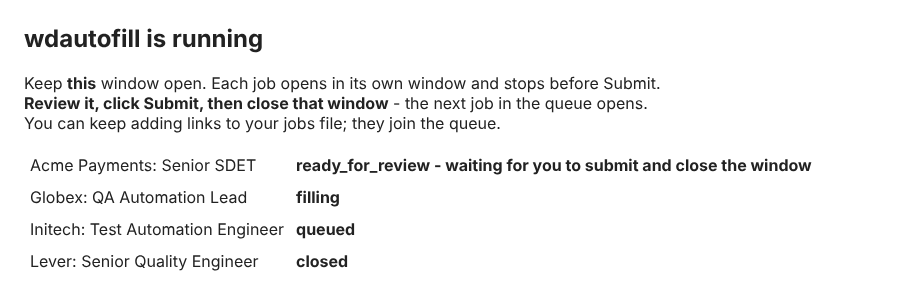
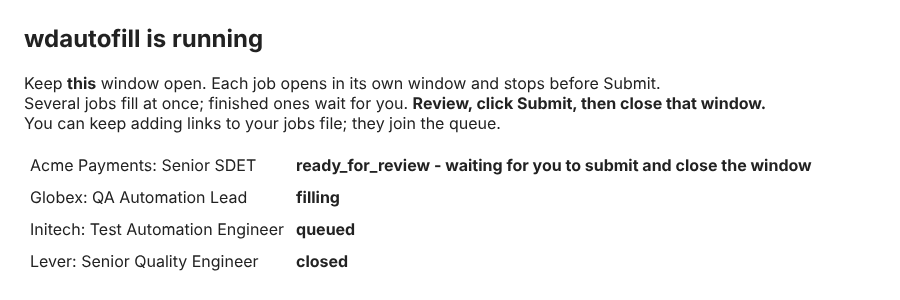
Fill 5 jobs at once regardless of open windows; search and profile fixes

Changed region(s): [[0.0311, 0.3, 0.8711, 0.39]]

diff --git a/src/wdautofill/workday.py b/src/wdautofill/workday.py
@@ -568,7 +568,18 @@ class WorkdayFiller:
 
     def _row_entries(self, section: str) -> list[dict] | None:
         entries = self.resolver.profile.get(section)
-        return entries if isinstance(entries, list) else None
+        if not isinstance(entries, list):
+            return None
+        out = []
+        for e in entries:
+            e = dict(e or {})
+            if section == "education" and "school" not in e:  # accept college / university / institution
+                for alias in ("college", "university", "institution"):
+                    if alias in e:
+                        e["school"] = e[alias]
+                        break
+            out.append(e)
+        return out
 
     async def _sync_rows(self) -> None:
         """Make the number of Work Experience / Education blocks match your profile."""
@@ -962,7 +973,7 @@ STATUS_PAGE = """<html><head><title>wdautofill - keep this window open</title></
 <body style="font-family:system-ui,sans-serif;margin:24px;color:#222">
 <h2>wdautofill is running</h2>
 <p>Keep <b>this</b> window open. Each job opens in its own window and stops before Submit.<br>
-<b>Review it, click Submit, then close that window</b> - the next job in the queue opens.<br>
+Several jobs fill at once; finished ones wait for you. <b>Review, click Submit, then close that window.</b><br>
 You can keep adding links to your jobs file; they join the queue.</p>
 <table cellpadding="6" style="border-collapse:collapse">{rows}</table></body></html>"""
 
@@ -973,15 +984,19 @@ async def run_jobs(
     browser_dir: Path,
     channel: str | None = None,
     parallel: int = 5,
+    max_open: int = 15,
     watch_file: Path | None = None,
     skip_urls: set[str] | None = None,
     watch_interval: float = 5.0,
     headless: bool = False,
     **kwargs,
 ) -> dict[str, str]:
-    """Unlimited queue. At most `parallel` job windows are open at once; when you
-    close a window (after submitting), the next job starts. New lines added to
-    `watch_file` while running are queued too."""
+    """Unlimited queue. `parallel` applications are being FILLED at any moment; a
+    window that is finished and waiting for you does not hold up the next job.
+    `max_open` caps how many job windows can be open in total (filled ones wait for
+    you to submit and close them). New lines added to `watch_file` are queued too."""
+    max_open = max(max_open, parallel)
+    filling = asyncio.Semaphore(max(1, parallel))
     browser_dir.mkdir(parents=True, exist_ok=True)
     skip_urls = set(skip_urls or ())
     queue: asyncio.Queue = asyncio.Queue()
@@ -1026,7 +1041,10 @@ async def run_jobs(
                     queue.task_done()
                     return
                 page = None
+                slot_held = False
                 try:
+                    await filling.acquire()  # at most `parallel` jobs filling at once
+                    slot_held = True
                     page = await ctx.new_page()
                     status[job.url] = "filling"
                     await refresh()
@@ -1042,6 +1060,8 @@ async def run_jobs(
                         result = "error - finish by hand"
                     titles[job.url] = f"{job.company + ': ' if job.company else ''}{job.title or job.url}"
                     status[job.url] = f"{result} - waiting for you to submit and close the window"
+                    filling.release()  # done filling: the next job can start now
+                    slot_held = False
                     await refresh()
                     if not page.is_closed():  # you close it after submitting
                         await page.wait_for_event("close", timeout=0)
@@ -1050,6 +1070,8 @@ async def run_jobs(
                 except Exception as exc:  # browser closed, etc.
                     status[job.url] = f"error: {type(exc).__name__}"
                 finally:
+                    if slot_held:
+                        filling.release()
                     await refresh()
                     queue.task_done()
 
@@ -1071,7 +1093,8 @@ async def run_jobs(
                 await asyncio.sleep(watch_interval)
 
         await refresh()
-        workers = [asyncio.create_task(worker()) for _ in range(max(1, parallel))]
+        # one worker per window that may be open; the semaphore limits how many fill at once
+        workers = [asyncio.create_task(worker()) for _ in range(max(1, max_open))]
         watch_task = asyncio.create_task(watcher())
         try:
             while True:

diff --git a/src/wdautofill/cli.py b/src/wdautofill/cli.py
@@ -5,6 +5,7 @@ import asyncio
 import getpass
 import json
 import os
+import re
 import sys
 from pathlib import Path
 
@@ -29,6 +30,22 @@ def _load_profile(folder: Path) -> tuple[dict, Path] | None:
     except yaml.YAMLError as exc:
         _yaml_help(path, exc)
         return None
+
+
+def _profile_problems(profile: dict) -> list[str]:
+    """Easy-to-make mistakes that would make fields fail later."""
+    out = []
+    for section, fmt, pattern in (("experience", "MM/YYYY (e.g. 08/2025)", r"^\d{1,2}/\d{4}$"),
+                                  ("education", "YYYY or MM/YYYY (e.g. 2014)", r"^(\d{1,2}/)?\d{4}$")):
+        for i, e in enumerate(profile.get(section) or [], 1):
+            for key in ("from", "to"):
+                v = str((e or {}).get(key, "") or "").strip()
+                if v and v.lower() not in {"current", "present", "now", "today"} and not re.match(pattern, v):
+                    out.append(f"{section} #{i} {key}: '{v}' - use {fmt}")
+    edu = profile.get("education") or []
+    if edu and not any(k in (edu[0] or {}) for k in ("school", "college", "university", "institution")):
+        out.append("education #1 has no 'school:' - add your university/college name")
+    return out
 
 
 def _yaml_help(path: Path, exc: Exception) -> None:
@@ -125,6 +142,9 @@ def _apply(args: argparse.Namespace) -> int:
         return 1
     profile, _ = loaded
 
+    for problem in _profile_problems(profile):
+        print("Check profile.yaml:", problem)
+
     jobs_file = _file(folder, args.file) or folder / "jobs.txt"
     if not args.urls and not read_job_lines(jobs_file.read_text(encoding="utf-8") if jobs_file.exists() else ""):
         _paste_links(jobs_file)
@@ -182,7 +202,7 @@ def _apply(args: argparse.Namespace) -> int:
 
     from .workday import run_jobs  # imported lazily so tests don't need a browser
 
-    print(f"\n{len(jobs)} job(s) queued; up to {args.parallel} windows open at a time.")
+    print(f"\n{len(jobs)} job(s) queued; {args.parallel} filling at a time, up to {args.max_open} windows open.")
     print(f"Add more links to {jobs_file.name} at any time - they join the queue.\n")
     asyncio.run(
         run_jobs(
@@ -191,6 +211,7 @@ def _apply(args: argparse.Namespace) -> int:
             browser_dir=Path(args.browser_dir).expanduser(),
             channel=args.channel,
             parallel=args.parallel,
+            max_open=args.max_open,
             watch_file=jobs_file,
             skip_urls=set(done),
             resume_path=resume_path,
@@ -227,6 +248,13 @@ def _search(args: argparse.Namespace) -> int:
         print(f"Companies list not found: {companies}", file=sys.stderr)
         return 1
     sites = read_sites(companies)
+    if not sites:
+        print(f"{companies} has no career sites yet - nothing to search.\n"
+              "Add one Workday career-site address per line, e.g.\n"
+              "  https://mastercard.wd1.myworkdayjobs.com/CorporateCareers\n"
+              "Find more: open a company's careers page; if the address contains myworkdayjobs.com, paste it.\n"
+              "(LinkedIn is not searched - its terms forbid automated searching.)", file=sys.stderr)
+        return 1
     print(f"Searching {len(sites)} Workday career sites for {keywords} in '{location or 'any location'}', "
           f"posted in the last {days} days...")
     failed = []
@@ -279,7 +307,10 @@ def _add_apply_args(p: argparse.ArgumentParser) -> None:
     p.add_argument("urls", nargs="*", help="Workday job URLs (optional - default: jobs.txt)")
     p.add_argument("--dir", default=".", help="folder with profile.yaml, answers, jobs.txt (default: here)")
     p.add_argument("--file", help="job list file (default: jobs.txt in --dir)")
-    p.add_argument("--parallel", type=int, default=5, help="job windows open at once (default 5)")
+    p.add_argument("--parallel", type=int, default=5,
+                   help="applications filling at the same time (default 5)")
+    p.add_argument("--max-open", type=int, default=15,
+                   help="job windows open in total, incl. finished ones waiting for you (default 15)")
     p.add_argument("--country", help="country of ALL these jobs (US, UK, IN...). Default: read from each posting")
     p.add_argument("--again", action="store_true", help="also redo jobs filled before")
     p.add_argument("--resume", help="resume file (default: resume_path in profile)")

diff --git a/tests/test_driver_mock.py b/tests/test_driver_mock.py
@@ -461,3 +461,43 @@ def test_waits_for_workday_loading_screen(tmp_path):
     assert status == "ready_for_review"
     assert (first, city) == ("John", "Pune")
     assert not submitted
+
+
+def test_finished_windows_waiting_for_you_do_not_block_new_jobs(tmp_path, monkeypatch):
+    """--parallel counts jobs being FILLED; filled windows waiting for review don't hold a slot."""
+    from wdautofill import workday
+
+    jobs_file = tmp_path / "jobs.txt"
+    jobs_file.write_text("".join(f"https://c{i}.wd1.myworkdayjobs.com/x/job/{i}\n" for i in range(1, 5)))
+    pages, started = [], []
+
+    async def fake_run(self, url=None):
+        started.append(self.job.url)
+        pages.append(self.page)
+        await self.page.set_content("<p>filled - waiting for review</p>")
+        return "ready_for_review"  # window stays open, like a real finished application
+
+    async def reviewer():
+        while len(started) < 4:  # all 4 must start although nobody closed a window yet
+            await asyncio.sleep(0.1)
+        for p in pages:
+            await p.close()
+
+    monkeypatch.setattr(workday.WorkdayFiller, "run", fake_run)
+    from wdautofill.jobs import parse_jobs
+
+    async def main():
+        rev = asyncio.create_task(reviewer())
+        status = await asyncio.wait_for(workday.run_jobs(
+            parse_jobs([], str(jobs_file), None), Resolver({}, AnswerBank(tmp_path / "a.yaml")),
+            browser_dir=tmp_path / "browser", parallel=2, max_open=15, headless=True), timeout=60)
+        await rev
+        return status
+
+    try:
+        status = asyncio.run(main())
+    except Exception as exc:
+        if "Executable doesn't exist" in str(exc):
+            pytest.skip("Playwright browser not installed")
+        raise
+    assert len(started) == 4 and set(status.values()) == {"closed"}

diff --git a/src/wdautofill/templates.py b/src/wdautofill/templates.py
@@ -140,8 +140,25 @@ JOBS = '''\
 
 COMPANIES = """\
 # Workday career sites to search, one per line (wdautofill search).
-# Find one: open a company's careers page; if the address contains
-# myworkdayjobs.com, copy it up to the site name, e.g.
-# https://acme.wd5.myworkdayjobs.com/en-US/External
-# Any job link from that site also works.
+# Find more: open a company's careers page; if the address contains
+# myworkdayjobs.com, paste it here (any job link from that site also works).
+# Starter list: companies that had QA/SDET jobs in India on Workday (October 2026).
+# Delete the ones you don't want, add your own.
+
+https://mastercard.wd1.myworkdayjobs.com/CorporateCareers
+https://worldpay.wd5.myworkdayjobs.com/Worldpay_External_Careers_Site
+https://fiserv.wd5.myworkdayjobs.com/EXT
+https://tsys.wd1.myworkdayjobs.com/en-US/TSYS
+https://statestreet.wd1.myworkdayjobs.com/en-US/Global
+https://lplfinancial.wd1.myworkdayjobs.com/en-US/India_Ext
+https://finastra.wd3.myworkdayjobs.com/en-US/FINC
+https://autodesk.wd1.myworkdayjobs.com/en-US/Ext
+https://qualys.wd5.myworkdayjobs.com/en-US/Careers
+https://rockwellautomation.wd1.myworkdayjobs.com/External_Rockwell_Automation
+https://wk.wd3.myworkdayjobs.com/en-US/External
+https://automationanywhere.wd5.myworkdayjobs.com/en-US/AutomationAnywhereJobs
+https://prodege.wd108.myworkdayjobs.com/Prodege_Careers
+https://accenture.wd103.myworkdayjobs.com/en-US/AccentureCareers
+https://jadeglobal.wd5.myworkdayjobs.com/Jade_Careers
+https://dentsuaegis.wd3.myworkdayjobs.com/en-US/DAN_GLOBAL
 """

diff --git a/tests/test_coverletter_search.py b/tests/test_coverletter_search.py
@@ -95,3 +95,21 @@ def test_search_filters_scores_and_ranks():
     assert top.company == "Acme" and top.url.endswith("/Ext/job/Pune/Senior-SDET_R1")
     assert top.matched == ["Playwright", "C#", "Azure DevOps"] and top.score > posts[1].score
     assert "asks 15+ yrs" in posts[1].notes
+
+
+def test_search_location_city_and_years_text():
+    """'Pune, India' must match postings listed as 'Pune' / 'IND Pune'; years may be '9+'."""
+    site = Site("acme.wd5.myworkdayjobs.com", "acme", "Ext")
+    listing = [{"title": "SDET", "externalPath": "/job/a/SDET_R1", "locationsText": "IND Pune", "postedOn": "Posted Today"},
+               {"title": "SDET", "externalPath": "/job/b/SDET_R2", "locationsText": "Austin, TX", "postedOn": "Posted Today"}]
+
+    def http(url, body=None):
+        if body is not None:
+            return {"total": 2, "jobPostings": listing} if body["offset"] == 0 else {"jobPostings": []}
+        loc = "IND Pune" if "R1" in url else "Austin, TX"
+        return {"jobPostingInfo": {"location": loc, "jobDescription": "Selenium and C#. 15+ years"}}
+
+    posts = search([site], ["SDET"], "Pune, India", ["Selenium", "C#"], years="9+", max_days=30,
+                   http=http, log=lambda *a: None)
+    assert [p.path for p in posts] == ["/job/a/SDET_R1"]
+    assert "asks 15+ yrs" in posts[0].notes

diff --git a/src/wdautofill/search.py b/src/wdautofill/search.py
@@ -141,6 +141,12 @@ def _has(text: str, term: str) -> bool:
     return re.search(r"(?<![a-z0-9])" + re.escape(term.lower()) + r"(?![a-z0-9])", text.lower()) is not None
 
 
+def parse_years(value) -> float | None:
+    """9, "9", "9+", "9 years" -> 9.0"""
+    m = re.search(r"\d+(\.\d+)?", str(value)) if value is not None else None
+    return float(m.group(0)) if m else None
+
+
 def score(post: Posting, keywords: list[str], skills: list[str], years: float | None) -> None:
     title_hit = any(_has(post.title, k) for k in keywords)
     post.matched = [s for s in skills if _has(post.description + " " + post.title, s)]
@@ -164,7 +170,9 @@ def search(
     exclude: list[str] | None = None, http=_http, log=print,
 ) -> list[Posting]:
     found: dict[str, Posting] = {}  # keyed by site + path (stable before details load)
-    loc = location.lower().strip()
+    years = parse_years(years)
+    # "Pune, India" -> match on "pune" (Workday lists jobs as "Pune", "IND Pune", "Pune, MH"...)
+    loc = re.split(r"[,/|]", location.lower())[0].strip()
     for site in sites:
         n_before = len(found)
         try:

diff --git a/src/wdautofill/llm.py b/src/wdautofill/llm.py
@@ -114,6 +114,10 @@ def make_llm(
     provider = (provider or "none").lower()
     if provider in {"none", ""}:
         return None
+    if not (model or "").strip():
+        print(f"Note: llm.provider is '{provider}' but llm.model is empty - AI is off. "
+              "Set a model (see the examples in profile.yaml) or use provider: none.")
+        return None
     if provider == "anthropic":
         return AnthropicLLM(model)
     if provider == "openai":

diff --git a/README.md b/README.md
@@ -143,14 +143,21 @@ paste that link into `jobs.txt`.
 - Links come from `jobs.txt`, the command line, or pasted into the terminal. Add more to
   `jobs.txt` while it runs - they join the queue. Jobs filled before are skipped
   (`--again` redoes them).
-- One window per job, at most `--parallel 5` open. **Review, click Submit, close the
-  window** - the next job opens.
+- **5 applications fill at the same time** (change with `--parallel`). A finished
+  window waits for your review without holding anything up - the next job starts
+  right away. **Review, click Submit, close the window.** At most 15 job windows are
+  open at once (`--max-open`), so 100 links don't open 100 windows.
+
+  ```bash
+  wdautofill apply --dir personal --parallel 8      # 8 at a time on a fast PC
+  wdautofill apply --dir personal --parallel 2      # gentler on a slow PC / connection
+  ```
 - Resume goes to every Resume/CV box; your cover letter template becomes
   `cover_letters/<You>_Cover_Letter_<Company>.docx` and goes to Cover Letter boxes.
 - New questions come to the terminal one at a time, tagged with the job. If several
   windows need the same new question, you're asked once.
 
-Flags: `--parallel N`, `--country IN`, `--resume FILE`, `--cover-letter FILE`,
+Flags: `--parallel N`, `--max-open N`, `--country IN`, `--resume FILE`, `--cover-letter FILE`,
 `--no-auto-account`, `--overwrite`, `--no-resume-autofill`, `--channel chrome`,
 `--again`. `wdautofill answers --dir personal` lists your saved answers.
 
